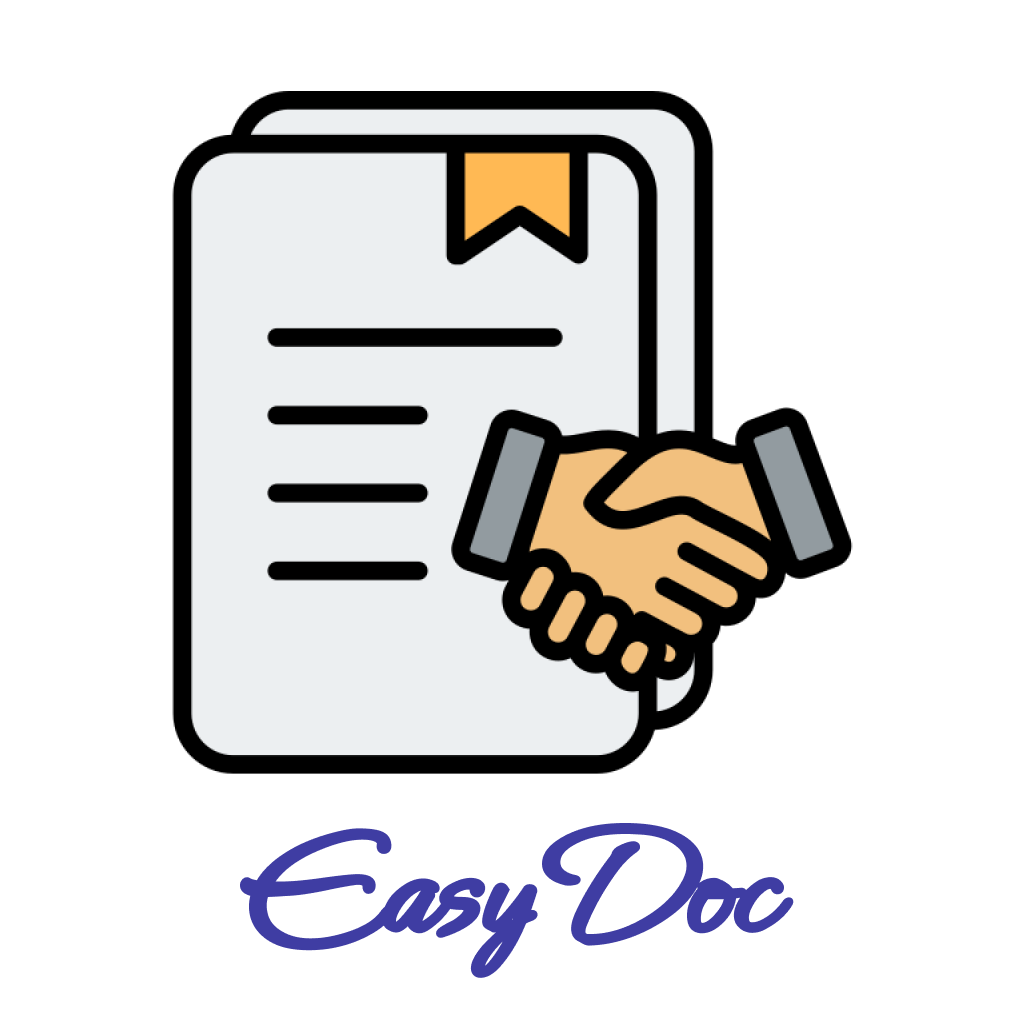
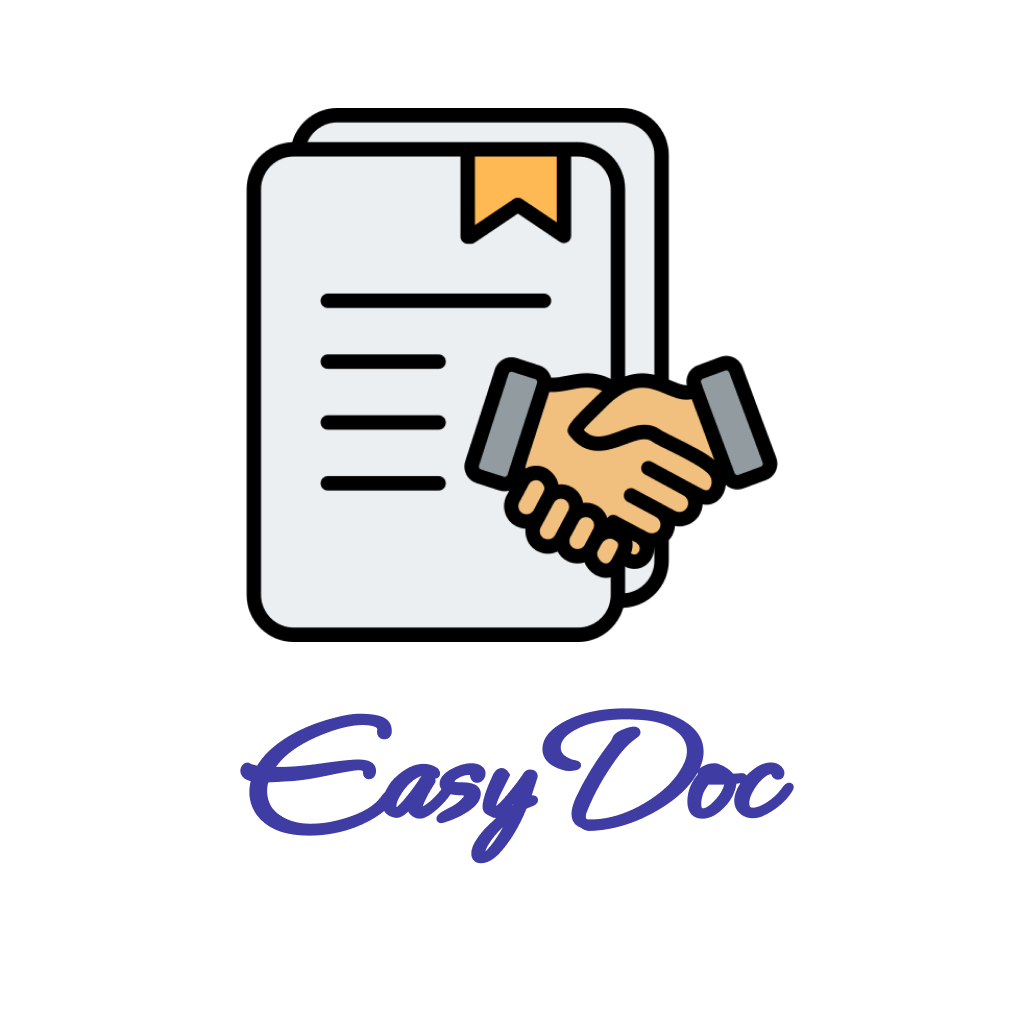
Página de Abertura terminada!

Changed region(s): [[0.1562, 0.0625, 0.8438, 0.9688]]

diff --git a/src/screens/InitialPages/index.tsx b/src/screens/InitialPages/index.tsx
@@ -1,25 +1,37 @@
 import { InitialPage1 } from "./1";
 import { InitialPage2 } from "./2";
-import {styles} from '../../styles/InitialPages'
-import { View, Text, ImageBackground,Image, Button } from "react-native"
+import { stylesInitial } from '../../styles/InitialPages'
+import { View, Text, ImageBackground, Image, TouchableHighlight } from "react-native"
+import { useState } from "react";
 export function InitialPage() {
-    const background = require('../../assets/Initial/1.png')
+    const background1 = require('../../assets/Initial/1.png')
+    const background2 = require('../../assets/Initial/2.png')
     const icon = require('../../assets/icon.png')
+    const [page, setPage] = useState(1)
     return (
-        
-        <ImageBackground style={styles.container} source={background}>
-        <View style={styles.background}>
-            <Image source ={icon} style={styles.iconApp}/>
 
-            <View >
-                <InitialPage1 />
+        <ImageBackground style={stylesInitial.container} source={page == 1 ? background1 : background2}>
+            <View style={stylesInitial.background}>
+                <View style={stylesInitial.iconText}>
+
+                    <Image source={icon} style={stylesInitial.iconApp} />
+
+                    <View >
+                        {page == 1 ? <InitialPage1 /> : <InitialPage2 />}
+                    </View>
+                </View>
+                <View style={stylesInitial.SwitchButtonContainer}>
+                    <TouchableHighlight style={[stylesInitial.SwitchButton, page == 2 ? stylesInitial.SwitchButtonActived : stylesInitial.SwitchButtonDisabled]} onPress={() => {
+                        setPage(1)
+                    }
+                    } ><Text style={stylesInitial.Arrow}>&larr;</Text></TouchableHighlight>
+                    <TouchableHighlight style={[stylesInitial.SwitchButton, page == 1 ? stylesInitial.SwitchButtonActived : stylesInitial.SwitchButtonDisabled]} onPress={() => {
+                        setPage(2)
+                    }
+                    } ><Text style={stylesInitial.Arrow}>&rarr;</Text></TouchableHighlight>
+                </View>
             </View>
 
-            <View style={styles.SwitchButton}>
-                <Button title="" style ={styles.SwitchButton.actived}/>
-                <Button title=""/>
-            </View>
-        </View>
         </ImageBackground>
     )
 }

diff --git a/src/styles/InitialPages.ts b/src/styles/InitialPages.ts
@@ -1,33 +1,83 @@
 import {StyleSheet} from 'react-native'
 
-export const styles = StyleSheet.create({
+export const stylesInitial = StyleSheet.create({
     container: {
         flex:1
 
     },
     background:{
         flex:1,
-        backgroundColor:'rgba(63, 61, 163, 0.89)'
+        backgroundColor:'rgba(63, 61, 163, 0.89)',
+        justifyContent:'space-around',
+        alignItems:'center',
+        flexDirection:'column',
+        padding:25
+        
     },
     iconApp:{
         width: 150,
-        height:150
+        height:150,
+        marginBottom:20,
+        borderRadius:75
     },
     title:{
         fontSize: 40
     },
     paragrafo:{
-        fontSize: 20
+        fontSize: 20,
+        textAlign:'justify'
+    },
+    iconText:{
+        alignItems:'center',
+        justifyContent:'center',
+        marginBottom:50
+    },
+    SwitchButtonContainer:{
+        display: 'flex',
+        flexDirection:'row',
+        justifyContent:'space-between',
+        alignItems: 'center',
+        width:250,
+        height:70,
+        position:'absolute',
+        bottom:50
+
+
     },
     SwitchButton:{
-        actived:{
-            backgroundColor:'red',
-            
-        },
-        disabled:{
-            flex: 1,
-        }
+        textAlign:'center',
+        padding:1,
+        display:'flex',
+        width:70,
+        height:70,
+        borderRadius:35,
+        alignItems:'center',
+        justifyContent:'center',
+        opacity:1,
         
-    }
+    },
+    Arrow:{
+        fontSize:40,
+        display:'flex',
+        textAlign:'center',
+        padding:0,
+        margin:0,
+        marginBottom:20,
+    },
+    SwitchButtonActived:{
 
+        backgroundColor: 'rgba(0, 0, 0, 0.39)',
+        
+    },
+     SwitchButtonDisabled:{
+        backgroundColor: '#838181',
+    },
+    iconsWordPdfContainer:{
+        width:150,
+        height:70,
+        flexDirection:'row',
+        alignSelf:'flex-end'
+        
+    },
+    iconWordPdf:{}
 })

diff --git a/src/screens/InitialPages/2/index.tsx b/src/screens/InitialPages/2/index.tsx
@@ -1,12 +1,22 @@
-import {View,Text} from 'react-native'
-import {styles} from '../../../styles/InitialPages'
-export function InitialPage2(){
+import { View, Text, Image,StyleSheet } from 'react-native'
+import { stylesInitial } from '../../../styles/InitialPages'
+import { styles  } from '../../../styles/GlobalStyle'
+export function InitialPage2() {
+    const wordImg = require('../../../assets/Initial/word.png')
+    const pdfImg = require('../../../assets/Initial/pdf.png')
     return (
-    
         <View>
-                <Text style={styles.title}>Edite seus documentos com facilidade</Text>
-                <Text style={styles.paragrafo}>Bem-vindo ao Easy Doc, o seu assistente de documentação pessoal. Aqui, oferecemos mais de 10 modelos de documentos prontos para uso. Com a nossa interface intuitiva, você pode editar seus documentos com facilidade, economizando tempo e esforço.</Text>
-
+            <Text style={[stylesInitial.title, SpecificStyle.right]}>Compartilhe seus documentos</Text>
+            <Text style={stylesInitial.paragrafo}>No <Text style={styles.bold}> Easy Doc</Text>, você pode compartilhar seus documentos em formatos <Text style={styles.bold}> PDF ou DOCX </Text>com apenas um clique. Mantenha todos na mesma página, compartilhando seus documentos de maneira eficiente e eficaz.</Text>
+            <View style={stylesInitial.iconsWordPdfContainer}>
+                <Image style={stylesInitial.iconWordPdf} source={wordImg} />
+                <Image style={stylesInitial.iconWordPdf} source={pdfImg} />
+            </View>
         </View>
     )
 }
+const SpecificStyle = StyleSheet.create({
+    right:{
+        textAlign:'right'
+    }
+})

diff --git a/src/screens/InitialPages/1/index.tsx b/src/screens/InitialPages/1/index.tsx
@@ -1,5 +1,6 @@
 import { ImageBackground, View , Text} from 'react-native'
-import { styles } from '../../../styles/InitialPages'
+import { stylesInitial } from '../../../styles/InitialPages'
+import { styles } from '../../../styles/GlobalStyle'
 
 export function InitialPage1() {
 
@@ -7,8 +8,8 @@ export function InitialPage1() {
 
 
         <View>
-                <Text style={styles.title}>Edite seus documentos com facilidade</Text>
-                <Text style={styles.paragrafo}>Bem-vindo ao Easy Doc, o seu assistente de documentação pessoal. Aqui, oferecemos mais de 10 modelos de documentos prontos para uso. Com a nossa interface intuitiva, você pode editar seus documentos com facilidade, economizando tempo e esforço.</Text>
+                <Text style={stylesInitial.title}>Edite seus documentos com facilidade</Text>
+                <Text style={stylesInitial.paragrafo}>Bem-vindo ao <Text style={styles.bold}> Easy Doc</Text>, o seu assistente de documentação pessoal. Aqui, oferecemos mais de <Text style={styles.bold}> 10 modelos de documentos</Text> prontos para uso. Com a nossa interface intuitiva, você pode editar seus documentos com facilidade, economizando tempo e esforço.</Text>
 
         </View>
     )

diff --git a/App.tsx b/App.tsx
@@ -1,8 +1,8 @@
 
-
+import { Text } from "react-native";
 import { InitialPage } from "./src/screens/InitialPages";
 export default function App() {
   return (
-    <InitialPage/>
+     <InitialPage/>
   );
 }

diff --git a/src/styles/GlobalStyle.tsx b/src/styles/GlobalStyle.tsx
@@ -1,0 +1,7 @@
+import {StyleSheet} from 'react-native'
+
+export const styles = StyleSheet.create({
+    bold:{
+        fontWeight:'bold'
+    }
+})
